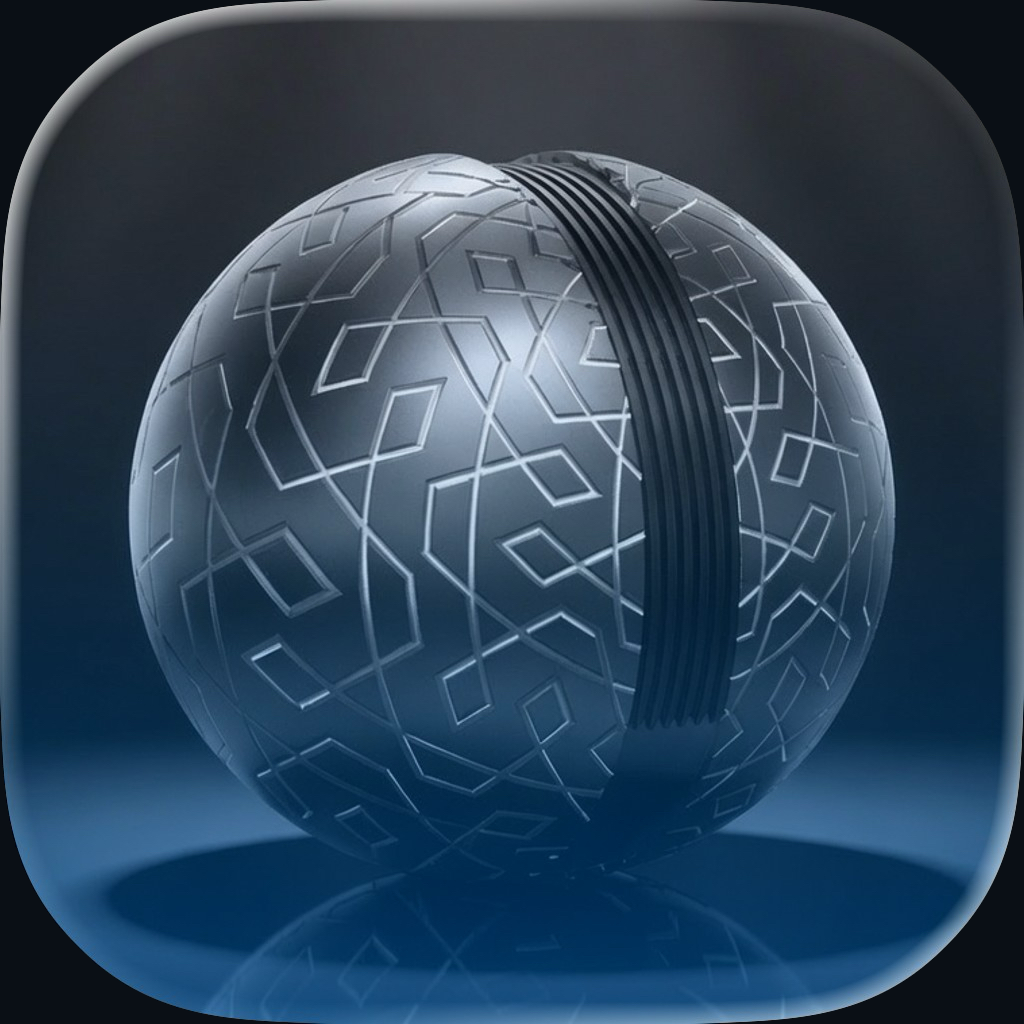
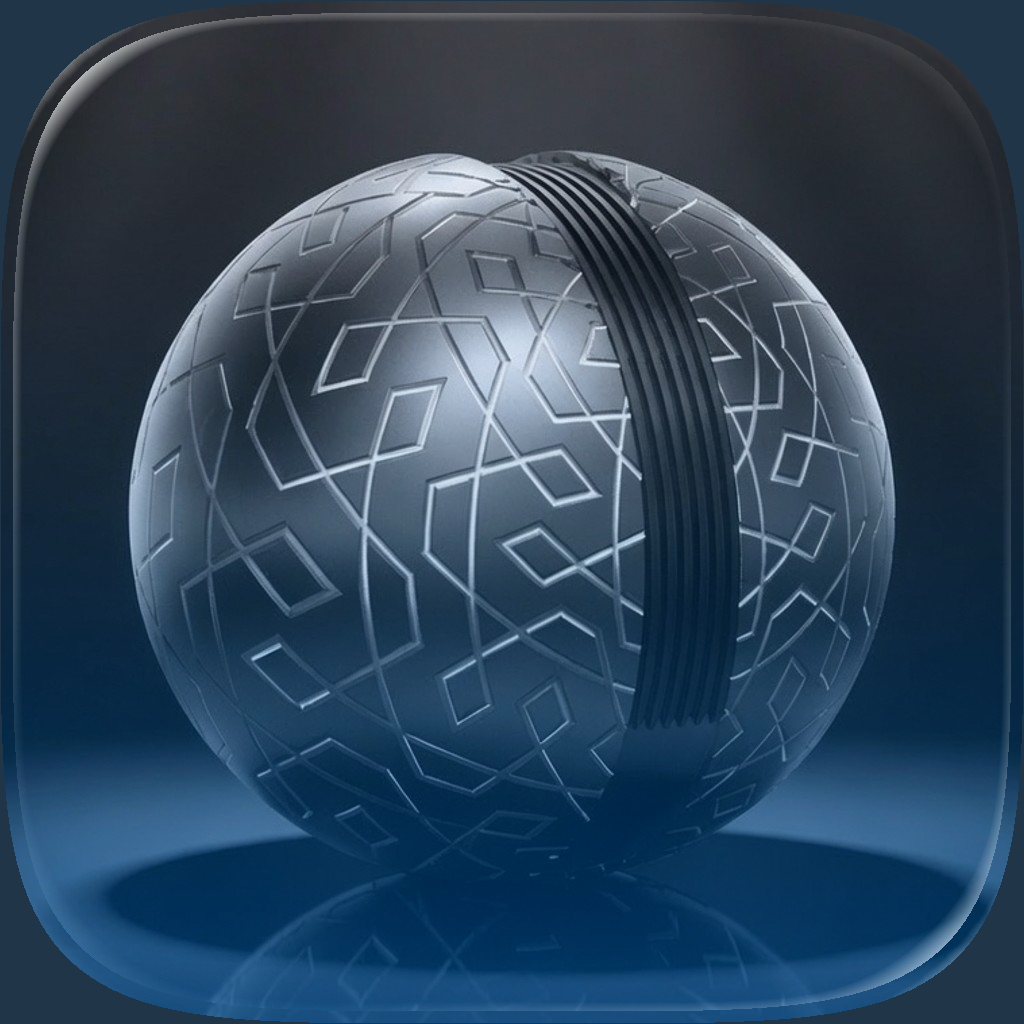
Release Sovereign Remote 5.0.1 build 18 for Thinking Service dial.
Bump TestFlight to 18 with full-bleed App Store icons, dial What-to-Test, and ASC icon attach notes. Dial itself already shipped on main via PR #4; this promotes the TF build and tester checklist.

Changed region(s): [[0.0, 0.0, 1.0, 1.0], [0.375, 0.3438, 1.0, 1.0]]

diff --git a/ios/CenturionApp/AppStore/SCREENSHOTS.md b/ios/CenturionApp/AppStore/SCREENSHOTS.md
@@ -1,17 +1,29 @@
 # App Store screenshots & icon
 
+## Why the Apps list still shows the grid placeholder
+
+Uploading a TestFlight build is **not enough**. App Store Connect only copies the 1024×1024 marketing icon onto the **Apps** list after you:
+
+1. Wait until the build finishes processing (TestFlight → Builds → status ready).
+2. Open **Personal Centurion AI Remote** → **iOS 5.0.1** (Prepare for Submission).
+3. In the **Build** section, click **+** / **Select a build**, choose the latest build (**18+**), then **Save**.
+4. Hard-refresh the Apps list (or sign out/in). The grid placeholder should become the sphere icon.
+
+Until a build is attached to that version and saved, ASC keeps the template grid — even if the IPA contains a perfect icon.
+
+There is **no** separate Media Manager icon upload for modern iOS apps; the icon comes from the binary’s `ios-marketing` 1024 asset.
+
 ## App Store icon (1024×1024)
 
 Source of truth: [`../Assets.xcassets/AppIcon.appiconset/`](../Assets.xcassets/AppIcon.appiconset/)  
-Export for Media Manager: [`AppStoreIcon-1024.png`](AppStoreIcon-1024.png) (RGB, no alpha, full-bleed square).
+Export copy: [`AppStoreIcon-1024.png`](AppStoreIcon-1024.png) (RGB, no alpha, full-bleed square — no pre-rounded black corners).
 
-If App Store Connect still shows the grid placeholder next to the app name:
+Verify marketing icon is inside an archive before upload:
 
-1. Open **App Information** (or version **5.0.1** → scroll to App Icon if shown).
-2. Upload `AppStoreIcon-1024.png`.
-3. Or attach a processed build that includes the marketing icon (build **14+**), then refresh.
-
-App Store Connect requires real device screenshots. The HTML mockup [`../AppStoreScreenshots.html`](../AppStoreScreenshots.html) is **design reference only** — do not upload it.
+```bash
+APP="build/TestFlight/CenturionApp-5.0.1-18.xcarchive/Products/Applications/CenturionApp.app"
+xcrun --sdk iphoneos assetutil --info "$APP/Assets.car" | rg -n 'marketing|1024|AppIcon' | head
+```
 
 ## Required captures (iPhone)
 
@@ -35,8 +47,12 @@ AppStore/iphone-67-05-privacy.png
 
 Optional iPad if `TARGETED_DEVICE_FAMILY` stays `1,2`.
 
+App Store Connect requires real device screenshots. The HTML mockup [`../AppStoreScreenshots.html`](../AppStoreScreenshots.html) is **design reference only** — do not upload it.
+
 ## Status
 
+- [ ] Build **18+** processed in TestFlight
+- [ ] Build selected on **iOS 5.0.1** and **Saved**
+- [ ] Apps list shows sphere icon (not grid)
 - [ ] Screenshots captured for 6.7"
-- [ ] Uploaded to App Store Connect
-- [ ] Listing preview reviewed on phone
+- [ ] Screenshots uploaded to App Store Connect

diff --git a/ios/CenturionApp/TestFlightWhatToTest.md b/ios/CenturionApp/TestFlightWhatToTest.md
@@ -1,23 +1,23 @@
-# Sovereign Remote — TestFlight What to Test (build 13)
+# Sovereign Remote — TestFlight What to Test (build 18)
 
-**Version:** 5.0.1 (13)  
-**Focus:** Memory Horizon in You + Desktop Settings
+**Version:** 5.0.1 (18)  
+**Focus:** Thinking Service dial (connect + switch Brain) + App Store icon
 
 ## Must try
 
 1. Link your Sovereign (or reconnect).
-2. Open **You → Memory Horizon**.
-3. Confirm three cards: Hot Cache / Session Recall / Vault with fill bars and status chips.
-4. Tap each card — guidance sheet + primary Chat action when linked.
-5. With Sovereign disconnected: offline banner; Chat actions disabled.
-6. On Desktop: **Settings → Memory Horizon → View** — same live numbers as the phone.
+2. Open **You → How Your Sovereign Thinks → Choose Thinking Service**.
+3. Confirm the fullscreen dial shows families with status (Active / Ready / Needs access / Connecting).
+4. If a family needs access: **Add access code** → paste key → pick service if offered → wait for Connecting → Active.
+5. Switch to another ready family/service → confirm the Thinking service card updates and **Crypto Chat** replies with that service.
+6. Toggle **Let Sovereign choose** (automatic routing) on/off; confirm the card reflects it.
 
 ## Also smoke
 
-- Crypto Chat send/receive after link
-- Demo banner clears after first successful link
-- Soul / Autonomy still open from You
+- Memory Horizon gauges still load when linked
+- Crypto Chat send/receive after a thinking-service switch
+- App icon on device / TestFlight build list shows the sphere (not a blank grid)
 
 ## Not in this build
 
-Thinking Service dial redesign and Plan Discuss chat polish remain out of scope for build 13.
+Plan Discuss chat polish remains out of scope.

diff --git a/ios/CenturionApp/DEVICE_SMOKE.md b/ios/CenturionApp/DEVICE_SMOKE.md
@@ -97,5 +97,5 @@ Date: 2026-07-21
 Device: (physical smoke pending)
 iOS:
 Sovereign:
-Result: Release build SUCCEEDED; Archive 5.0.1 (13) uploaded to App Store Connect (processing). Memory Horizon DEVICE_SMOKE section added. Complete pairing/Crypto Chat/MH gauges on device before promoting TF build.
+Result: Thinking Service dial on main (PR #4). Archive 5.0.1 (18) uploaded to App Store Connect — icon full-bleed + dial What-to-Test. Complete dial DEVICE_SMOKE on device; attach build 18 to ASC version 5.0.1 so Apps list icon updates.
 ```
